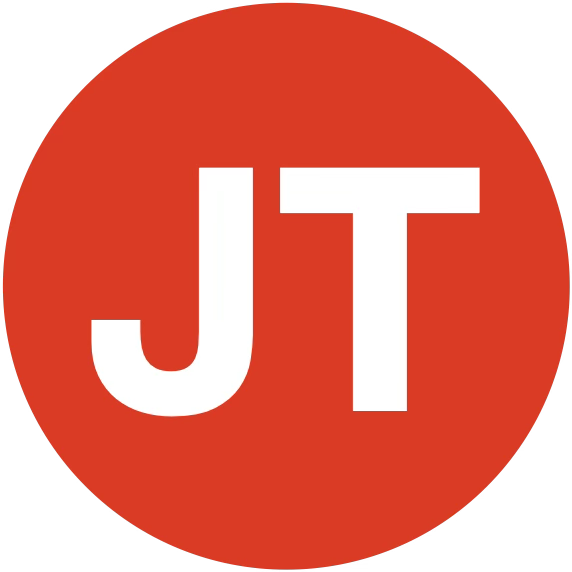
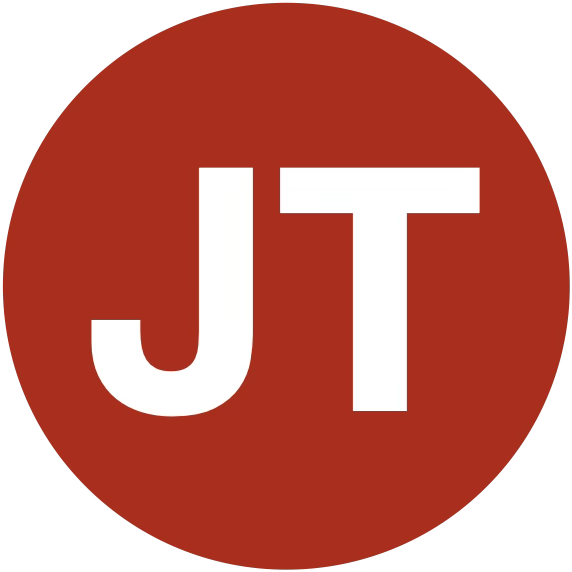
Reduce container top margin and simplify social links
Lower the top spacing of the main container (mt-4 -> mt-2) to tighten the page header. Replace the unordered list of social links with a simpler flex-column container (d-flex flex-column gap-1) to streamline markup and spacing. Also update the site icon (assets/img/icon.png) with a new binary image.

diff --git a/index.html b/index.html
@@ -18,7 +18,7 @@
     <link rel="stylesheet" href="css/style.css" />
   </head>
   <body>
-    <div class="container mt-4 mt-md-5 pt-md-3">
+    <div class="container mt-2 mt-md-5 pt-md-3">
       <div class="row g-5">
         <!-- Sidebar -->
         <div class="col-md-3">
@@ -37,30 +37,18 @@
               <p class="text-muted mb-3">Information Security, PhD</p>
 
               <!--<h3 class="h6 text-uppercase text-secondary">Social</h3>-->
-              <ul class="list-unstyled mb-0">
-                <li class="mb-2">
-                  <a
-                    href="https://www.six-group.com/en/home.html"
-                    target="_blank"
-                    ><i class="bi bi-building me-2" aria-hidden="true"></i
-                    >SIX</a
-                  >
-                </li>
-                <li class="mb-2">
-                  <a
-                    href="https://www.linkedin.com/in/jtoropozo"
-                    target="_blank"
-                    ><i class="bi bi-linkedin me-2" aria-hidden="true"></i
-                    >LinkedIn</a
-                  >
-                </li>
-                <li>
-                  <a href="https://github.com/jorgetp" target="_blank"
-                    ><i class="bi bi-github me-2" aria-hidden="true"></i
-                    >Github</a
-                  >
-                </li>
-              </ul>
+              <div class="d-flex flex-column mb-0 gap-1">
+                <a href="https://www.six-group.com/en/home.html" target="_blank"
+                  ><i class="bi bi-building me-2" aria-hidden="true"></i>SIX</a
+                >
+                <a href="https://www.linkedin.com/in/jtoropozo" target="_blank"
+                  ><i class="bi bi-linkedin me-2" aria-hidden="true"></i
+                  >LinkedIn</a
+                >
+                <a href="https://github.com/jorgetp" target="_blank"
+                  ><i class="bi bi-github me-2" aria-hidden="true"></i>Github</a
+                >
+              </div>
             </div>
           </div>
         </div>
